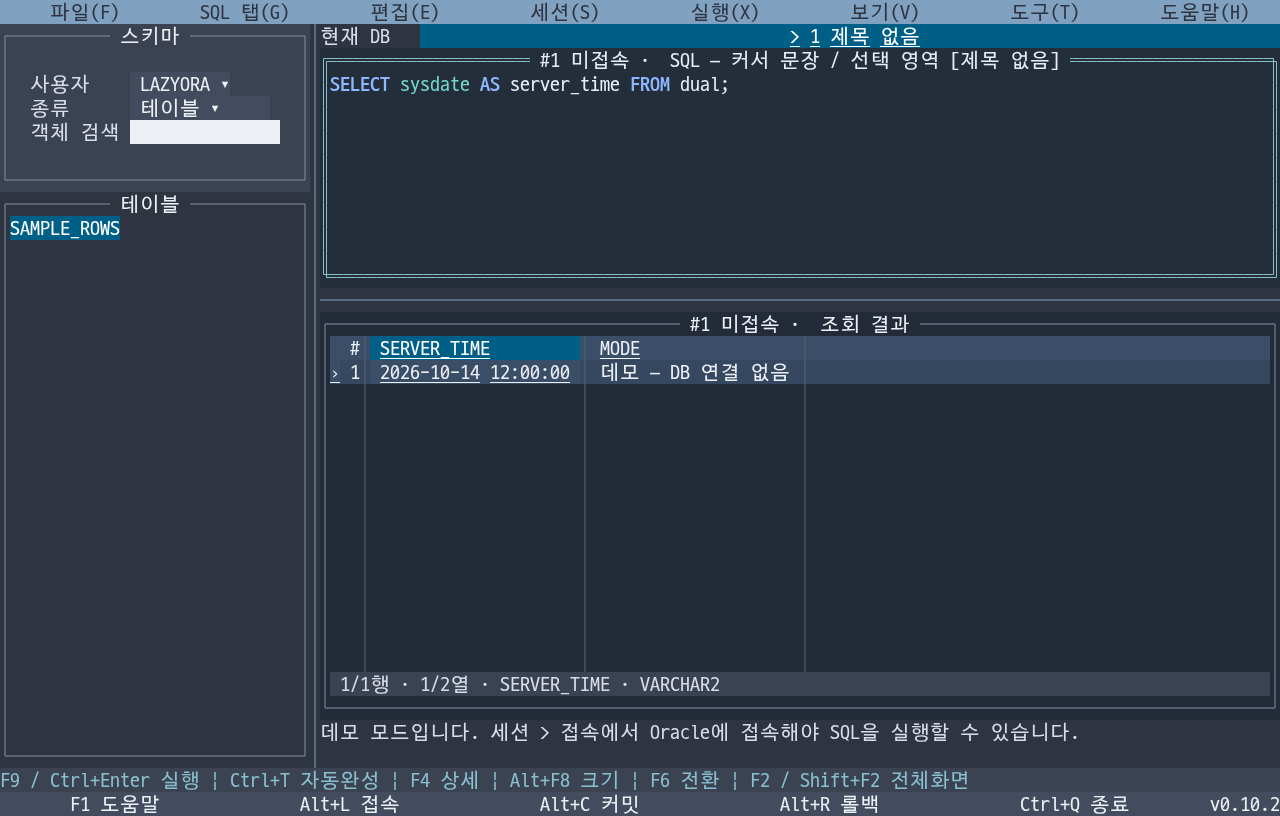
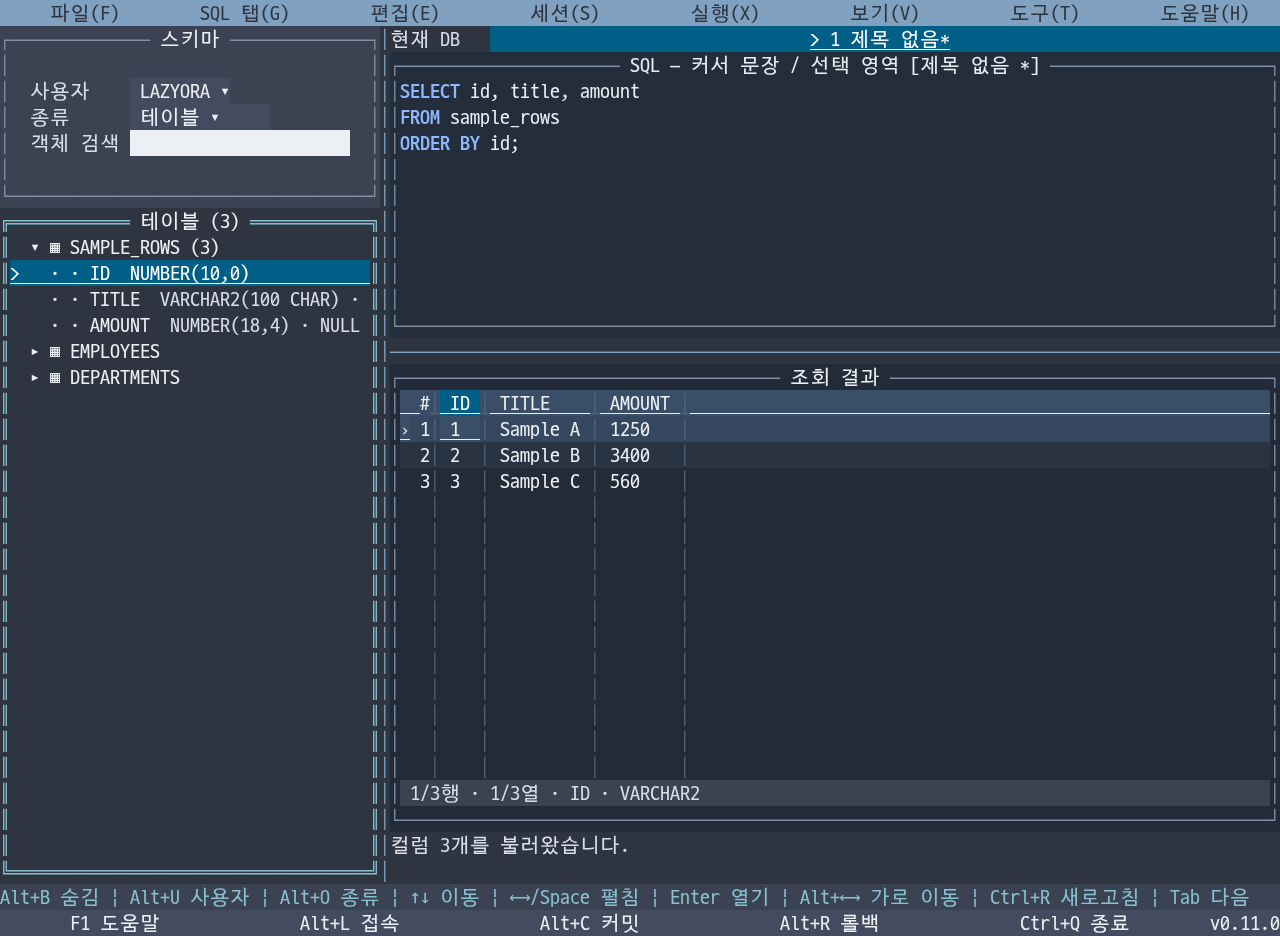
chore: LORA-19 v0.11.0 릴리스와 한영 안내 준비

Changed region(s): [[0.0, 0.0, 1.0, 1.0], [0.4062, 0.9498, 1.0, 1.0], [0.0312, 0.0, 0.0938, 0.0306]]

diff --git a/internal/appinfo/info.go b/internal/appinfo/info.go
@@ -4,7 +4,7 @@ package appinfo
 const (
 	ProjectURL = "https://github.com/leechis7/lazyora"
 	Name       = "LazyOra"
-	Version    = "0.10.2"
+	Version    = "0.11.0"
 	Developer  = "이채강 (Chaekang Lee)"
 	Email      = "leechis7@gmail.com"
 	License    = "AGPL-3.0-only"

diff --git a/docs/guide.en.md b/docs/guide.en.md
@@ -28,7 +28,7 @@ F9 executes the selection, or the statement at the cursor when nothing is select
 F5 executes a script in order and stops at the first error or cancellation.
 Separate PL/SQL blocks with a standalone / line. SQL*Plus commands are unsupported.
 
-Since v0.10.2, Tuivory v0.0.1 supplies common theme, input, choice, button, grid and syntax styles. It is included in the executable; no separate installation is needed. Dark/Light/Black-White themes and 8/16/256/True Color terminal profiles are distinct.
+Tuivory v0.1.0 supplies common theme, input, choice, button, grid and syntax styles. It is included in the executable; no separate installation is needed. Dark/Light/Black-White themes and 8/16/256/True Color terminal profiles are distinct.
 
 Tools → Settings selects Toad (default), Vim, Notepad++, VS Code or IntelliJ IDEA keymaps, language, Dark/Light/Black-White theme and mouse support.
 Help → Editor keymap comparison, or Alt+K in F1 help, compares the assigned keys. Arrows navigate; full selected-cell text appears below. Enter switches table/detail; scroll detail with arrows or PgUp/PgDn. Tab cycles table/detail/Close. Ctrl+C copies the table and Esc returns.
@@ -45,7 +45,7 @@ An uncertain outcome needs verification through a new connection; never assume a
 
 ## Connections and schema browsing
 
-The next development version uses the published Tuivory **v0.1.0** tree. User/type selectors and live object filtering remain. On a table or view, use **Right/Space or click the disclosure arrow** to fetch columns and data types. **Left** collapses or moves to the parent; **Alt+Left/Right** pans long names. **Enter or clicking a name** opens the existing object details. Columns are fetched on expansion and cached for the current list; Ctrl+R refresh, owner changes and reconnects clear the cache. Collapse and re-expand after failure/cancellation to retry. Existing Esc cancellation and work-protection rules apply during queries. This change is not yet in a published LazyOra release.
+v0.11.0 uses the published Tuivory **v0.1.0** tree. User/type selectors and live object filtering remain. On a table or view, use **Right/Space or click the disclosure arrow** to fetch columns and data types. **Left** collapses or moves to the parent; **Alt+Left/Right** pans long names. **Enter or clicking a name** opens the existing object details. Columns are fetched on expansion and cached for the current list; Ctrl+R refresh, owner changes and reconnects clear the cache. Collapse and re-expand after failure/cancellation to retry. Existing Esc cancellation and work-protection rules apply during queries.
 
 Alt+J opens workspaces: N adds a connection, Enter switches, Delete asks before closing one.
 SQL tabs, results and transactions are separate between connections. Check the environment, account and database labels.
@@ -94,4 +94,4 @@ Help → View/copy diagnostics previews public environment details.
 Help → Report an issue / suggest a feature provides the URL and report template. Remove real credentials, SQL and results.
 Release history marks unreleased development separately. About is the last Help menu item.
 
-Tools → Settings → Character display (Alt+D) saves Auto/Unicode/ASCII (next version). --display-mode ascii overrides only this run. ASCII uses English UI and ? substitutes for non-ASCII data glyphs, preserving original SQL/data/application copy/export and Korean preferences. Settings/Diagnostics show the effective mode and reason. Actual font coverage cannot be detected.
+Tools → Settings → Character display (Alt+D) saves Auto/Unicode/ASCII (v0.11.0). --display-mode ascii overrides only this run. ASCII uses English UI and ? substitutes for non-ASCII data glyphs, preserving original SQL/data/application copy/export and Korean preferences. Settings/Diagnostics show the effective mode and reason. Actual font coverage cannot be detected.

diff --git a/docs/usage.md b/docs/usage.md
@@ -4,13 +4,13 @@
 
 [처음으로](../README.md) · [빌드와 검증](build.md) · [터미널 문제 해결](terminal.md)
 
-개발 중인 다음 버전은 Tuivory **v0.1.0** 공개 트리를 사용합니다. 사용자·객체 유형 선택과 실시간 검색은 유지하며, 테이블·뷰에서 **→/Space 또는 펼침 화살표 클릭**으로 컬럼·자료형을 불러옵니다. **←**는 접거나 부모로 이동하고, **Alt+←/→**는 긴 이름을 가로 이동합니다. **Enter 또는 이름 클릭**은 기존 객체 상세를 엽니다. 컬럼은 펼칠 때 조회해 현재 목록에서 재사용하며, Ctrl+R 새로고침·사용자 변경·재접속 시 캐시를 비웁니다. 실패·취소 후에는 접었다 다시 펼쳐 재시도합니다. 조회 중에는 기존 실행 취소(Esc)와 작업 보호 규칙이 적용됩니다. 이 변경은 아직 정식 릴리스에 포함되지 않았습니다.
+v0.11.0은 Tuivory **v0.1.0** 공개 트리를 사용합니다. 사용자·객체 유형 선택과 실시간 검색은 유지하며, 테이블·뷰에서 **→/Space 또는 펼침 화살표 클릭**으로 컬럼·자료형을 불러옵니다. **←**는 접거나 부모로 이동하고, **Alt+←/→**는 긴 이름을 가로 이동합니다. **Enter 또는 이름 클릭**은 기존 객체 상세를 엽니다. 컬럼은 펼칠 때 조회해 현재 목록에서 재사용하며, Ctrl+R 새로고침·사용자 변경·재접속 시 캐시를 비웁니다. 실패·취소 후에는 접었다 다시 펼쳐 재시도합니다. 조회 중에는 기존 실행 취소(Esc)와 작업 보호 규칙이 적용됩니다.
 
-개발 중인 다음 버전은 도구 → 설정의 **문자 표시(Alt+D)**에서 자동/Unicode/ASCII를 저장할 수 있습니다. 이번 실행만 바꾸려면 `--display-mode ascii`를 사용합니다. ASCII는 영어 UI와 호환 문자로 표시하되 SQL·DB 값·앱 복사/내보내기 원문과 한국어 선호를 보존합니다. 화면의 `?` 대체 문자와 원문은 다를 수 있습니다. 실제 폰트 지원은 자동 감지할 수 없습니다. [문자 모드와 우선순위](terminal.md)를 참고하세요.
+v0.11.0은 도구 → 설정의 **문자 표시(Alt+D)**에서 자동/Unicode/ASCII를 저장할 수 있습니다. 이번 실행만 바꾸려면 `--display-mode ascii`를 사용합니다. ASCII는 영어 UI와 호환 문자로 표시하되 SQL·DB 값·앱 복사/내보내기 원문과 한국어 선호를 보존합니다. 화면의 `?` 대체 문자와 원문은 다를 수 있습니다. 실제 폰트 지원은 자동 감지할 수 없습니다. [문자 모드와 우선순위](terminal.md)를 참고하세요.
 
 ## 도움말 메뉴
 
-정식 v0.10.2 화면의 색상·입력·선택·버튼·목록·팝업·포커스는 **Tuivory v0.0.1**에서 제공하는 [공통 UI 스타일](ui-style.md)을 따릅니다. v0.10.2부터 패키지로 통합했으며 별도 설치 없이 실행파일에 포함됩니다. 도구 → 설정에서 다크·라이트·흑백을 고르고, 단말의 8/16/256색·True Color 능력에 맞춰 표시합니다.
+v0.11.0 화면의 색상·입력·선택·버튼·목록·팝업·포커스는 **Tuivory v0.1.0**에서 제공하는 [공통 UI 스타일](ui-style.md)을 따릅니다. v0.10.2부터 패키지로 통합했으며 별도 설치 없이 실행파일에 포함됩니다. 도구 → 설정에서 다크·라이트·흑백을 고르고, 단말의 8/16/256색·True Color 능력에 맞춰 표시합니다.
 
 **도움말(H)**에는 단축키 도움말(F1), 사용 가이드, 버전 변경 이력, 진단 정보 보기·복사,
 문제 신고·기능 제안, 편집기 키맵 비교표, 이 프로그램은… 순서로 표시합니다. About은 마지막에 둡니다.

diff --git a/docs/en/tuivory-sync.md b/docs/en/tuivory-sync.md
@@ -2,7 +2,7 @@
 
 [한국어](../tuivory-sync.md) | **English** · [UI style rules](ui-style.md)
 
-## LORA-78: capability detection and ASCII display (2026-10-28, unreleased)
+## LORA-78: capability detection and ASCII display (2026-10-28, v0.11.0)
 
 Keep public module v0.1.0, tag go/v0.1.0, commit c034a00b1db92ee7ad4abd1ea5956907f1c1a124. Connect TreeView.ASCII to the effective mode. LazyOra displayLayout/asciiScreen substitutes compatible glyphs only while drawing existing tview screens. Data, language preferences and terminal I/O protocols remain application-owned; do not copy or develop upstream sources here. Wire the unused Tuivory Panel/Split ASCII options when those components are adopted in their own issues.
 
@@ -11,7 +11,7 @@ CharacterSet and CanDisplay provide estimates, not real font coverage. [Terminal
 
 ## Current state
 
-**LazyOra v0.10.2 ships Tuivory v0.0.1**, module `github.com/leechis7/tuivory/go`, release tag `go/v0.0.1`, source commit `cf06d95f4334f65436197ae4f12faf35783f5b7a`. It uses the single public `tuivory` package. TUIS is no longer a dependency; earlier TUIS entries in the Korean record document the migration history.
+**LazyOra v0.11.0 ships Tuivory v0.1.0**, module `github.com/leechis7/tuivory/go`, release tag `go/v0.1.0`, source commit `c034a00b1db92ee7ad4abd1ea5956907f1c1a124`. It uses the single public `tuivory` package. TUIS is no longer a dependency; earlier TUIS entries in the Korean record document the migration history.
 
 The Go module lives under the upstream repository's `go/` directory. Current development consumers specify `@v0.1.0` (released LazyOra v0.10.2 used `@v0.0.1`); the repository tag includes the `go/` prefix. Do not import upstream `internal` packages or replace the module with a local checkout.
 
@@ -36,9 +36,9 @@ Both sides use compatible Go/tcell/tview requirements. The main module's tview r
 5. Check all 12 theme/profile combinations, focus/selection/input/popup states and theme round trips. Check SQL/password values, scroll, pending-edit markers and copying. Run appropriate regression/race/vet and default Linux ARM64 build checks.
 6. Record the version, affected areas, evidence and remaining real-terminal checks in both language guides. Commit/publish/release only within the user's authorization.
 
-## LORA-72: public v0.1.0 tree (2026-10-28, unreleased)
+## LORA-72: public v0.1.0 tree (2026-10-28, v0.11.0)
 
-The development branch pins `github.com/leechis7/tuivory/go v0.1.0`, tag [go/v0.1.0](https://github.com/leechis7/tuivory/releases/tag/go/v0.1.0), source `c034a00b1db92ee7ad4abd1ea5956907f1c1a124`. Module Origin and checksums were verified; no source copying or local replacement is used. Published LazyOra v0.10.2 still contains v0.0.1.
+LazyOra v0.11.0 pins `github.com/leechis7/tuivory/go v0.1.0`, tag [go/v0.1.0](https://github.com/leechis7/tuivory/releases/tag/go/v0.1.0), source `c034a00b1db92ee7ad4abd1ea5956907f1c1a124`. Module Origin and checksums were verified; no source copying or local replacement is used. LazyOra v0.10.2 contained v0.0.1.
 
 `browser_tree.go` delegates rendering/navigation/scroll to public Tree/TreeState/TreeView while preserving Oracle identities and asynchronous job references. `browser_columns.go` fetches table/view columns on expansion and caches them within the current list. Filtering/type changes retain cached branches; refresh, owner changes and reconnects replace them. Late responses require the original node instance to remain in the current cache. Preserve selectors, filtering, click/Enter details and focused double borders.
 

diff --git a/README.en.md b/README.en.md
@@ -6,7 +6,7 @@
 
 LazyOra aims to make everyday Oracle development and inspection practical in a terminal, including over SSH, without installing Toad or purchasing its commercial license. It adapts familiar Toad workflows and shortcuts to a TUI. It is an independent project under active development, not a complete replacement for every Toad feature.
 
-Current version: **0.10.2** · **Linux / Windows / macOS · AMD64 / ARM64**
+Current version: **0.11.0** · **Linux / Windows / macOS · AMD64 / ARM64**
 
 - Oracle SQL/PL/SQL syntax highlighting, files and multiple SQL tabs, cursor-statement execution, F5 scripts and IN bind variables.
 - Estimated execution plans, result copying, CSV/TSV/Excel/INSERT export, and manual commit/rollback.
@@ -16,7 +16,7 @@ Current version: **0.10.2** · **Linux / Windows / macOS · AMD64 / ARM64**
 
 ![LazyOra: menus, schema browser, SQL editor, result grid and context-sensitive shortcuts](docs/images/lazyora-overview.png)
 
-*v0.10.2 · Dark theme · English UI · DB-free demo widgets rendered in a simulated terminal.*
+*v0.11.0 · Dark theme · English UI · DB-free demo widgets rendered in a simulated terminal.*
 
 ## Quick start
 
@@ -83,7 +83,7 @@ Korean remains the primary documentation language. Historical audits, detailed d
 
 ## Implementation and shared UI
 
-**Since v0.10.2, [Tuivory](https://github.com/leechis7/tuivory) v0.0.1** provides common themes, color profiles, input/choice/button/table/popup styles, grid states and syntax colors through `github.com/leechis7/tuivory/go`. Release users do not install a separate package.
+**In v0.11.0, [Tuivory](https://github.com/leechis7/tuivory) v0.1.0** provides common themes, color profiles, input/choice/button/table/popup styles, grid states and syntax colors through `github.com/leechis7/tuivory/go`. Release users do not install a separate package.
 
 tview/tcell handle terminal rendering and input; go-ora handles Oracle communication. LazyOra retains SQL parsing for display, database execution and transactions, Toad keymaps, grid data and application state. See [UI style rules](docs/en/ui-style.md) and [Tuivory integration](docs/en/tuivory-sync.md).
 
@@ -95,8 +95,8 @@ Developer: **이채강 (Chaekang Lee)** · leechis7@gmail.com
 
 Copyright (C) 2026 Chaekang Lee. [GNU AGPL v3.0](LICENSE) (`AGPL-3.0-only`). Dependencies retain their own licenses.
 
-## Next-version development
+## New in v0.11.0
 
-The unreleased branch adopts the **Tuivory v0.1.0** tree: expand tables/views for columns and types, and pan long names horizontally. See [tree controls](docs/en/usage.md). Published v0.10.2 downloads retain their existing behavior.
+v0.11.0 adopts the **Tuivory v0.1.0** tree: expand tables/views for columns and types, and pan long names horizontally. See [tree controls](docs/en/usage.md).
 
-The unreleased branch adds saved **Auto/Unicode/ASCII** character display. Preview with `--demo --display-mode ascii`; see [terminal guidance](docs/en/terminal.md).
+v0.11.0 adds saved **Auto/Unicode/ASCII** character display. Preview with `--demo --display-mode ascii`; see [terminal guidance](docs/en/terminal.md).

diff --git a/docs/en/ui-style.md b/docs/en/ui-style.md
@@ -2,7 +2,7 @@
 
 [한국어](../ui-style.md) | **English** · [Documentation](index.md)
 
-In released **v0.10.2**, common styles come from **Tuivory v0.0.1**, the public Go module `github.com/leechis7/tuivory/go`. Its single `tuivory` package supplies `Styles`, `Styler`, `Choice` and state-style methods. The pinned version is in `go.mod`; see [integration and updates](tuivory-sync.md).
+In **v0.11.0**, common styles come from **Tuivory v0.1.0**, the public Go module `github.com/leechis7/tuivory/go`. Its single `tuivory` package supplies `Styles`, `Styler`, `Choice` and state-style methods. The pinned version is in `go.mod`; see [integration and updates](tuivory-sync.md).
 
 LazyOra's `internal/ui/style_tokens.go` adapts package values to product roles. It does not own a second palette. `theme.go` and `widgets.go` apply styles to existing widgets. Oracle execution, transactions, SQL display lexing, Toad keymaps, grid data, focus and modal input routing remain application responsibilities.
 
@@ -48,8 +48,8 @@ The 12-profile comparison covers connection/settings, output/history/plan/script
 
 Tuivory extraction, publication and LazyOra consumption are complete. The original [proposal](../ui-style-proposal.md) and candidate CSV are archived design input, not the live palette. [The integration record](tuivory-sync.md) points to dated automated evidence and its limitations. Tuivory itself is developed in its separate repository.
 
-## New tree integration (development)
+## New tree integration (v0.11.0)
 
-The development branch uses public Tuivory v0.1.0 `Tree`, `TreeState` and `TreeView`. Adapt existing `NewStyles` values to body/hint/surface/selection/focus.border roles instead of mixing in the separate candidate palette. LazyOra owns Oracle metadata, identities, lazy fetching, details actions and its existing focused double borders. Published v0.10.2 styles and binaries remain unchanged.
+v0.11.0 uses public Tuivory v0.1.0 `Tree`, `TreeState` and `TreeView`. Adapt existing `NewStyles` values to body/hint/surface/selection/focus.border roles instead of mixing in the separate candidate palette. LazyOra owns Oracle metadata, identities, lazy fetching, details actions and its existing focused double borders.
 
-LORA-78 development connects the public Tuivory v0.1.0 tree ASCII option to a LazyOra display-only adapter. Character mode is independent of theme, colors and mouse. ASCII uses English UI, distinguishes single/double horizontal borders with -/=, and substitutes non-ASCII data only during drawing without changing editing/copy/export originals. Upstream source is neither changed nor copied.
+In v0.11.0, LORA-78 connects the public Tuivory v0.1.0 tree ASCII option to a LazyOra display-only adapter. Character mode is independent of theme, colors and mouse. ASCII uses English UI, distinguishes single/double horizontal borders with -/=, and substitutes non-ASCII data only during drawing without changing editing/copy/export originals. Upstream source is neither changed nor copied.

diff --git a/docs/terminal.md b/docs/terminal.md
@@ -4,9 +4,9 @@
 
 메인 SQL 실행은 F9, Ctrl+Enter, Alt+Enter입니다. 일반 Enter는 줄바꿈입니다. 접속 화면에서도 Ctrl+Enter·Alt+Enter·Alt+C로 접속할 수 있습니다.
 
-## 문자 표시 모드 (개발 중)
+## 문자 표시 모드 (v0.11.0)
 
-다음 버전에서는 **도구 → 설정 → 문자 표시(Alt+D)**에서 **자동(기본) / Unicode / ASCII**를 선택하고 저장합니다. 저장 직후 모든 접속 작업공간에 적용하며, 다음 실행에도 유지합니다. 저장 전 취소하거나 저장에 실패하면 기존 설정을 유지합니다. 적용 중인 모드·판단 이유는 설정 하단과 도움말 → 환경 진단에서 확인합니다.
+v0.11.0에서는 **도구 → 설정 → 문자 표시(Alt+D)**에서 **자동(기본) / Unicode / ASCII**를 선택하고 저장합니다. 저장 직후 모든 접속 작업공간에 적용하며, 다음 실행에도 유지합니다. 저장 전 취소하거나 저장에 실패하면 기존 설정을 유지합니다. 적용 중인 모드·판단 이유는 설정 하단과 도움말 → 환경 진단에서 확인합니다.
 
 - 자동: 실제 출력 문자셋과 tcell의 선·아이콘 출력 가능 추정치를 확인합니다. 색상 수나 `TERM=ansi`라는 이유만으로 ASCII로 바꾸지 않습니다. UTF-8이어도 실제 폰트의 글리프 존재는 확인할 수 없습니다.
 - Unicode: 문자 모양을 수동으로 지정합니다. 터미널 인코딩이나 폰트를 바꾸거나 미지원 문자의 출력을 보장하지는 않습니다.
@@ -24,7 +24,7 @@
 
 ASCII 모드도 기본 커서 이동·화면 갱신을 지원하는 터미널은 필요합니다. 문자 대체만으로 지원하지 않는 TERM이나 단순 출력 전용 단말에 TUI 기능이 추가되지는 않습니다.
 
-이 기능은 아직 정식 v0.10.2 다운로드에 포함되지 않았습니다.
+이 기능은 v0.11.0부터 제공합니다.
 
 
 ## SecureCRT에서 Ctrl+Enter가 줄바꿈으로 들어올 때
@@ -59,7 +59,7 @@ LazyOra는 결과 전체화면·복원에 Shift+F2와 F12를 함께 배정하므
 
 ## 테마와 색상 프로필
 
-v0.10.2의 공통 스타일은 Tuivory v0.0.1을 사용합니다. 다크·라이트·흑백 테마와 8/16/256색·True Color는 별도 축입니다. 설정에서 테마를, 터미널이 보고한 색상 수로 프로필을 결정합니다. 참조 팔레트의 대비 검사와 사용자가 바꾼 실제 ANSI 팔레트는 다를 수 있습니다. [공통 UI 규칙](ui-style.md)에서 적용 기준을 확인하세요.
+v0.11.0의 공통 스타일은 Tuivory v0.1.0을 사용합니다. 다크·라이트·흑백 테마와 8/16/256색·True Color는 별도 축입니다. 설정에서 테마를, 터미널이 보고한 색상 수로 프로필을 결정합니다. 참조 팔레트의 대비 검사와 사용자가 바꾼 실제 ANSI 팔레트는 다를 수 있습니다. [공통 UI 규칙](ui-style.md)에서 적용 기준을 확인하세요.
 
 ## 8색 시험과 마우스
 

diff --git a/docs/en/usage.md b/docs/en/usage.md
@@ -2,11 +2,11 @@
 
 [한국어](../usage.md) | **English** · [Documentation](index.md) · [Offline guide](../guide.en.md)
 
-This guide covers released v0.10.2 workflows and explicitly marked next-version additions. Released v0.10.2 input, selection, button, grid and popup styles use **Tuivory v0.0.1**, included in the executable. Choose Dark/Light/Black-White in Tools → Settings; terminal capability independently selects 8/16/256/True Color rendering. See [UI style rules](ui-style.md).
+This guide covers v0.11.0 workflows. Its input, selection, button, grid and popup styles use **Tuivory v0.1.0**, included in the executable. Choose Dark/Light/Black-White in Tools → Settings; terminal capability independently selects 8/16/256/True Color rendering. See [UI style rules](ui-style.md).
 
-The next development version uses the published Tuivory **v0.1.0** tree. User/type selectors and live object filtering remain. On a table or view, use **Right/Space or click the disclosure arrow** to fetch columns and data types. **Left** collapses or moves to the parent; **Alt+Left/Right** pans long names. **Enter or clicking a name** opens the existing object details. Columns are fetched on expansion and cached for the current list; Ctrl+R refresh, owner changes and reconnects clear the cache. Collapse and re-expand after failure/cancellation to retry. Existing Esc cancellation and work-protection rules apply during queries. This change is not yet in a published LazyOra release.
+v0.11.0 uses the published Tuivory **v0.1.0** tree. User/type selectors and live object filtering remain. On a table or view, use **Right/Space or click the disclosure arrow** to fetch columns and data types. **Left** collapses or moves to the parent; **Alt+Left/Right** pans long names. **Enter or clicking a name** opens the existing object details. Columns are fetched on expansion and cached for the current list; Ctrl+R refresh, owner changes and reconnects clear the cache. Collapse and re-expand after failure/cancellation to retry. Existing Esc cancellation and work-protection rules apply during queries.
 
-The next version adds saved **Auto/Unicode/ASCII** selection in Tools → Settings (**Alt+D**), plus a one-run `--display-mode ascii` override. ASCII uses English UI and compatible glyphs while preserving original SQL/data, application copy/export and Korean preferences. Displayed `?` substitutes can differ from original data. Actual font coverage cannot be detected. See [modes and precedence](terminal.md).
+v0.11.0 adds saved **Auto/Unicode/ASCII** selection in Tools → Settings (**Alt+D**), plus a one-run `--display-mode ascii` override. ASCII uses English UI and compatible glyphs while preserving original SQL/data, application copy/export and Korean preferences. Displayed `?` substitutes can differ from original data. Actual font coverage cannot be detected. See [modes and precedence](terminal.md).
 
 ## Help, menus and panel layout
 
